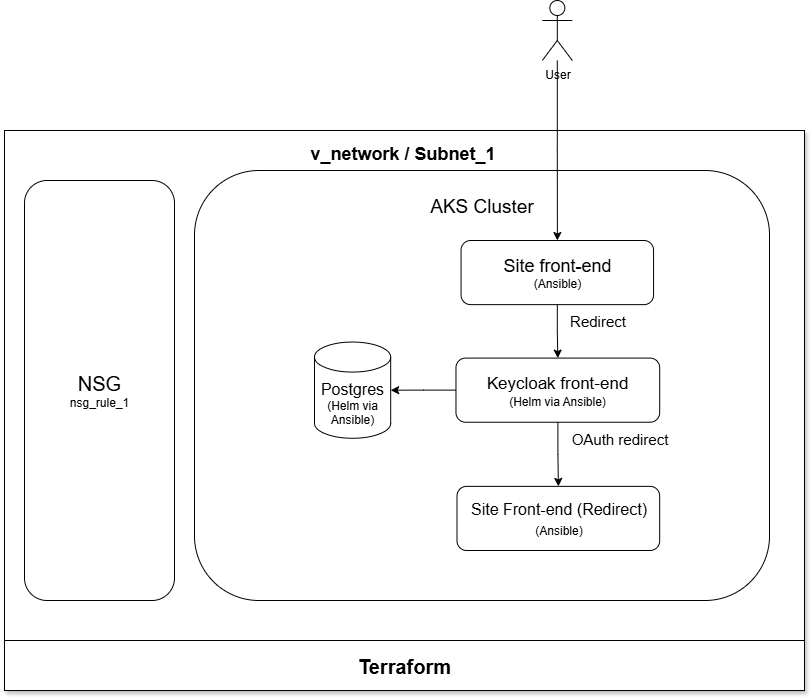
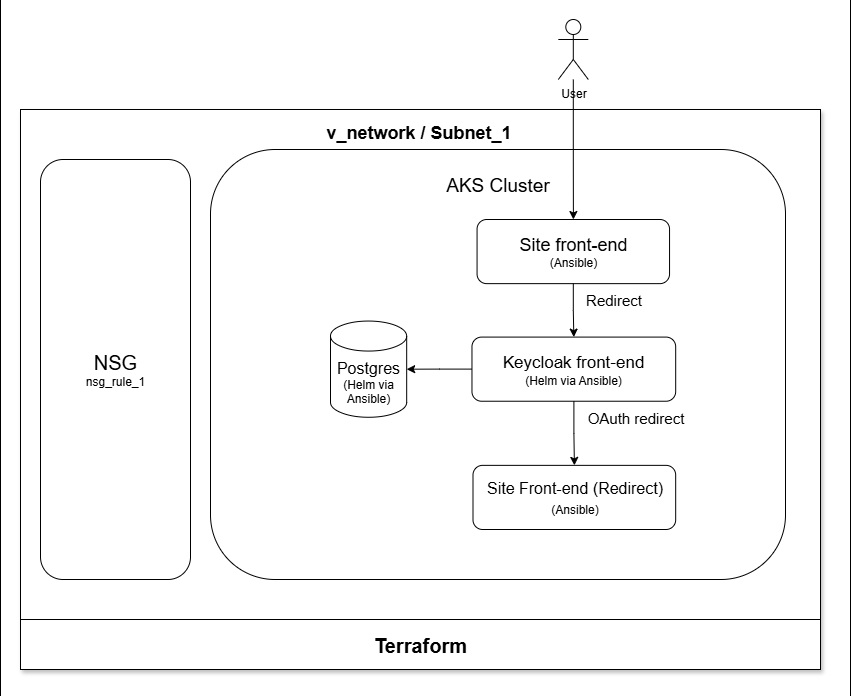
Merge pull request #4 from glitcher255/prod
update dev branch

Pull request: update dev branch

diff --git a/README.md b/README.md
@@ -184,8 +184,7 @@ Kubernetes provides scalable, portable container orchestration. AKS offers manag
 │   ├───cluster
 │   ├───NSG
 │   └───vnet
-├───scripts
-└───site
+└───scripts
 </pre>
 ---
 